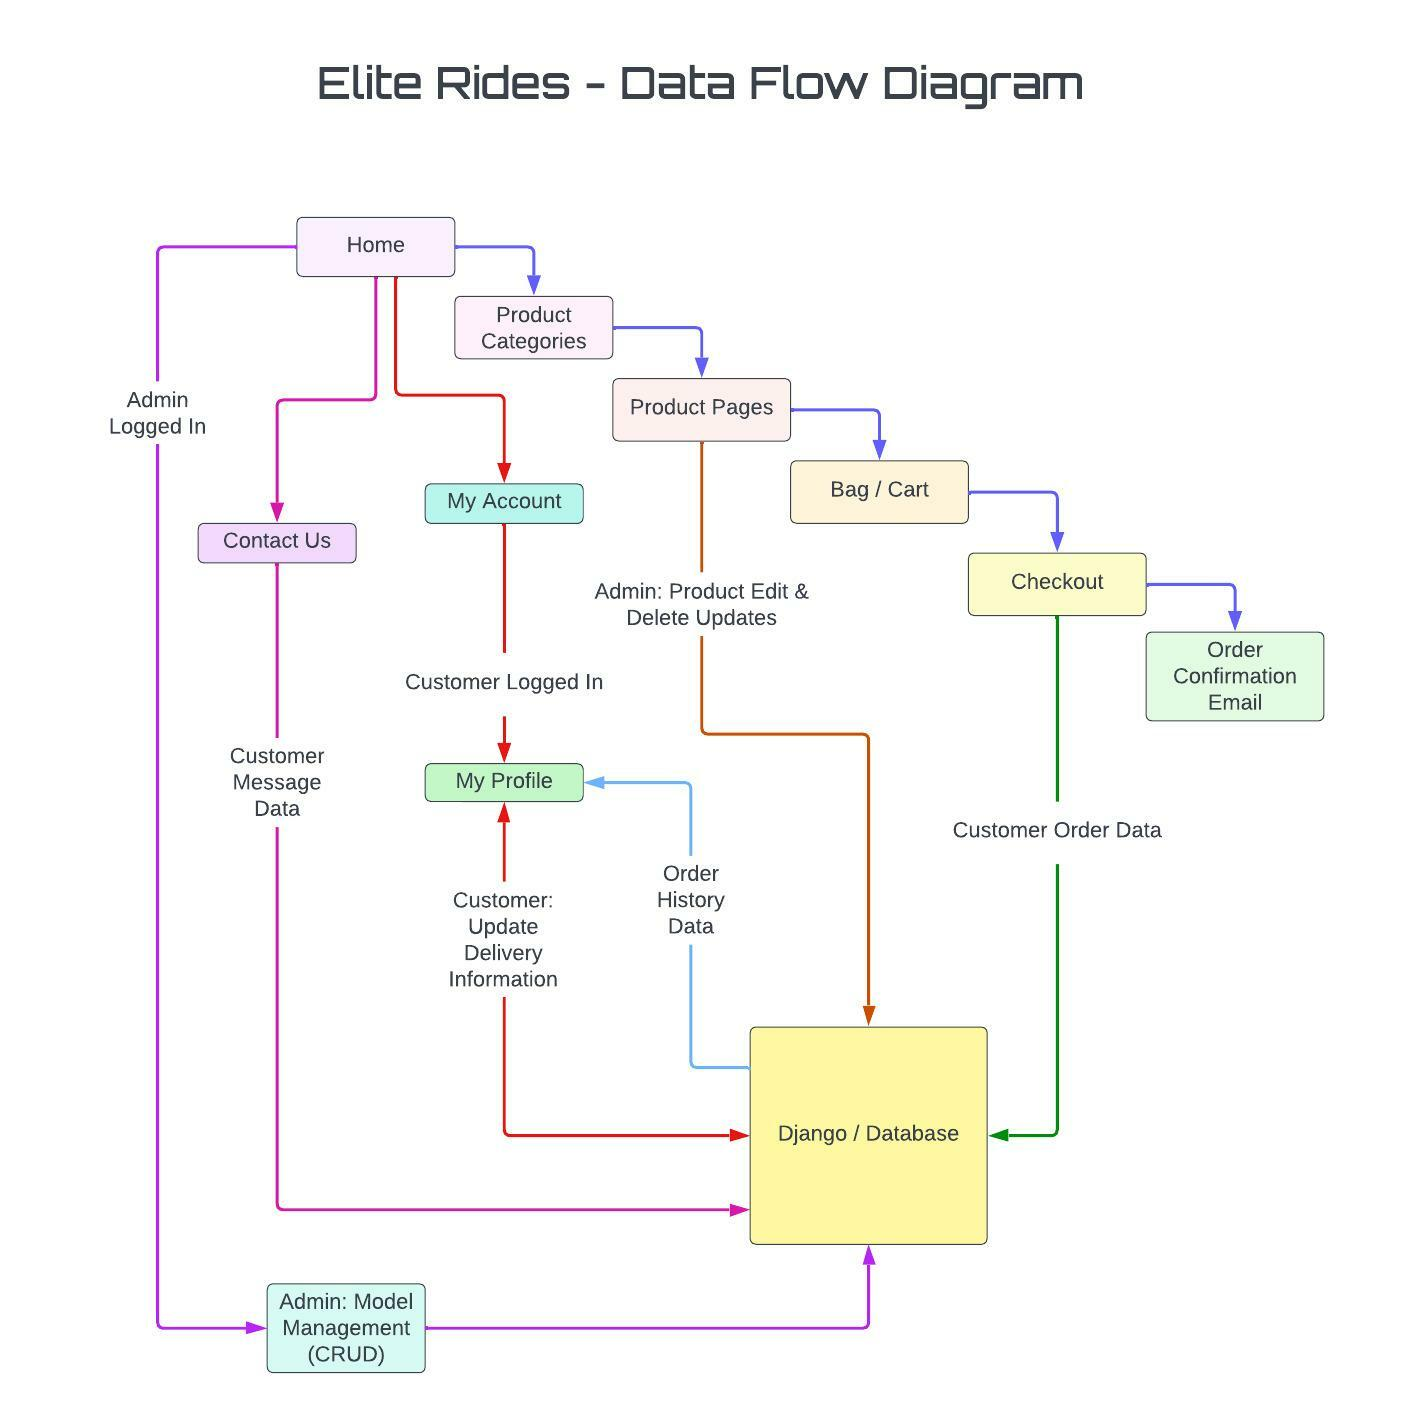
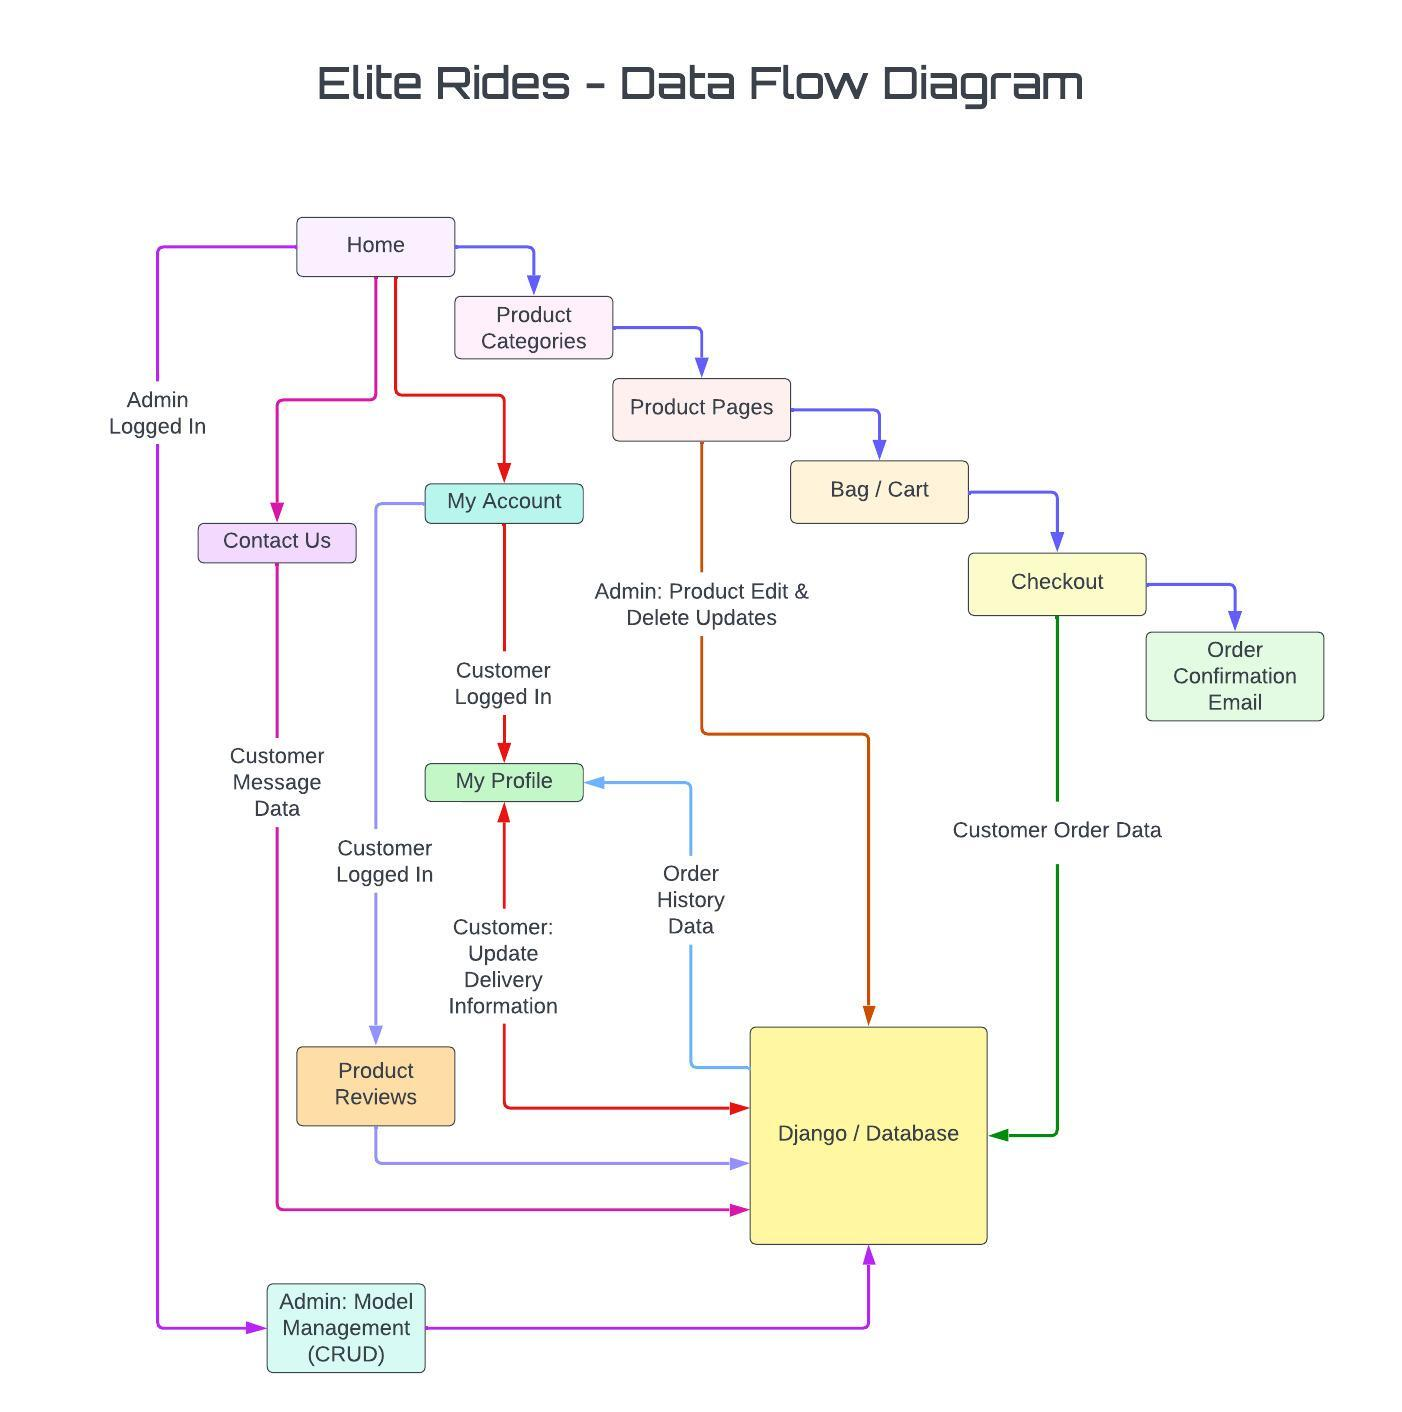
Updated Testing section, uploaded new erd and data diagram, added Bug 3 section

Changed region(s): [[0.184, 0.6232, 0.5521, 0.8102], [0.3067, 0.4674, 0.4294, 0.4986], [0.2454, 0.5921, 0.3067, 0.6544]]

diff --git a/README.md b/README.md
@@ -72,7 +72,8 @@ Elite Rides is responsive which makes shopping possible on mobile and table devi
 - [Testing](#testing)
     * [Manual Testing of User Stories](#manual-testing-of-user-stories)
     * [Code Validation](#code-validation)
-        + [HTML and CSS Validation](#html-and-css-validation)
+        + [CSS Validation](#css-validation)
+        + [HTML Validation](#html-validation)
         + [Javascript Validation](#javascript-validation)
         + [Python Validation](#python-validation)
     * [Performance](#performance)
@@ -81,6 +82,7 @@ Elite Rides is responsive which makes shopping possible on mobile and table devi
     * [Bugs Encountered during Testing](#bugs-encountered-during-testing)
         + [Bug 1](#bug-1)
         + [Bug 2](#bug-2)
+        + [Bug 3](#bug-3)
 - [Strip Integration](#strip-integration)
     * [Testing Stripe](#testing-stripe)
     * [Injecting Stripe](#injecting-stripe)
@@ -94,7 +96,7 @@ Elite Rides is responsive which makes shopping possible on mobile and table devi
     * [Databases](#databases)
     * [Other tools](#other-tools)
 - [Information Architecture](#information-architecture)
-    * [Entity-Relationship Diagram](#entity-relationship-diagram)
+    * [Relational Database Schema](#relational-database-schema)
 - [Deployments and Database Setup](#deployments-and-database-setup)
     * [Creating an external database using ElephantSQL](#creating-an-external-database-using-elephantsql)
     * [Create a Heroku app to connect to the new database](#create-a-heroku-app-to-connect-to-the-new-database)
@@ -781,33 +783,52 @@ I used the W3C Markup HTML Validator to confirm there are no errors in the html 
 
 `Document checking completed. No errors or warnings to show.`
 
-| URL | Result |
+| Page URL | Result |
 | ------------- | ------------- |
 | https://pp5-elite-rides.herokuapp.com/ | PASS |
-| https://pp5-elite-rides.herokuapp.com/products/?sort=price&direction=asc |  |
-| https://pp5-elite-rides.herokuapp.com/products/?sort=make&direction=asc |  |
-| https://pp5-elite-rides.herokuapp.com/products/?sort=model&direction=asc |  |
-| https://pp5-elite-rides.herokuapp.com/products/ |  |
-| https://pp5-elite-rides.herokuapp.com/products/?category=british |  |
-| https://pp5-elite-rides.herokuapp.com/products/?category=italian |  |
-| https://pp5-elite-rides.herokuapp.com/products/?category=german |  |
-| https://pp5-elite-rides.herokuapp.com/products/?category=british,italian,german |  |
-| https://pp5-elite-rides.herokuapp.com/about-us/ |  |
-| https://pp5-elite-rides.herokuapp.com/contact/ |  |
-| https://pp5-elite-rides.herokuapp.com/products/add/ |  |
-| https://pp5-elite-rides.herokuapp.com/profile/ |  |
-| https://pp5-elite-rides.herokuapp.com/accounts/logout/ |  |
-| https://pp5-elite-rides.herokuapp.com/accounts/signup/ |  |
-| https://pp5-elite-rides.herokuapp.com/accounts/login/ |  |
-| https://pp5-elite-rides.herokuapp.com/bag/ |  |
-| https://pp5-elite-rides.herokuapp.com/terms-conditions/ |  |
-| https://pp5-elite-rides.herokuapp.com/privacy-policy/ |  |
-| https://pp5-elite-rides.herokuapp.com/cookie-policy/
-| https://pp5-elite-rides.herokuapp.com/checkout/
-
+| https://pp5-elite-rides.herokuapp.com/products/?sort=price&direction=asc | PASS |
+| https://pp5-elite-rides.herokuapp.com/products/?sort=make&direction=asc | PASS |
+| https://pp5-elite-rides.herokuapp.com/products/?sort=model&direction=asc | PASS |
+| https://pp5-elite-rides.herokuapp.com/products/ | PASS |
+| https://pp5-elite-rides.herokuapp.com/products/?category=british | PASS |
+| https://pp5-elite-rides.herokuapp.com/products/?category=italian | PASS |
+| https://pp5-elite-rides.herokuapp.com/products/?category=german | PASS |
+| https://pp5-elite-rides.herokuapp.com/products/?category=british,italian,german | PASS |
+| https://pp5-elite-rides.herokuapp.com/about-us/ | PASS |
+| https://pp5-elite-rides.herokuapp.com/contact/ | PASS |
+| https://pp5-elite-rides.herokuapp.com/products/add/ | PASS |
+| https://pp5-elite-rides.herokuapp.com/profile/ | PASS |
+| https://pp5-elite-rides.herokuapp.com/accounts/logout/ | PASS |
+| https://pp5-elite-rides.herokuapp.com/accounts/signup/ | PASS |
+| https://pp5-elite-rides.herokuapp.com/accounts/login/ | PASS |
+| https://pp5-elite-rides.herokuapp.com/bag/ | PASS |
+| https://pp5-elite-rides.herokuapp.com/terms-conditions/ | PASS |
+| https://pp5-elite-rides.herokuapp.com/privacy-policy/ | PASS |
+| https://pp5-elite-rides.herokuapp.com/cookie-policy/ | PASS |
+| https://pp5-elite-rides.herokuapp.com/checkout/ | PASS |
+| https://pp5-elite-rides.herokuapp.com/products/{product id}/ | PASS |
+| https://pp5-elite-rides.herokuapp.com/profile/order_history/ | PASS |
+| https://pp5-elite-rides.herokuapp.com/accounts/confirm-email/ | PASS |
 
 ### Javascript Validation
+
+Javascript files tested using https://jshint.com/
+
+I added `/*jshint esversion: 6 */` at the top of the js files which tells 
+JS hint to use es6 features so it won't warn about them.
+
+Also, I used `/*globals $:false */` to suppress jquery warnings.
+
+| File Name | Result | Notes |
+| --------- | ------ | ----- |
+| stripe_elements.js | PASS | One undefined variable Line 25 for Stripe . This is coming from another script for Stripe which we don't want to modify. |
+| countryfield.js | PASS |
+
 ### Python Validation
+
+- I used flake8 to validate Python code. 
+- All flags/errors from my .py updates/files have been removed.
+- The only flags listed now are related to migrations, settings.py and vscode which do not need to be touched.
 
 [Back to contents](#contents)
 
@@ -865,6 +886,26 @@ I checked the browser console and saw a 403 error.
 In the `Bag App > bag.html` I removed the csrfToken from `var = data` by accident as I wanted to remove the size reference.
 
 ![image](/documentation/bugs/2_bug_403_fix.png)
+
+### Bug 3
+
+I added a test review in the django admin for a product. But the product review was not showing on the product detail page.
+
+![image](/documentation/bugs/3_product_reviews_error.png)
+
+In the product_detail.html template I'm checking against the contents of `eachProduct`, and I didn't set `eachProduct` in the `context` for your product_detail view.
+
+After I added the context, the reivews were showing
+
+```python
+context = {
+        'product': product,
+        'eachProduct': product,
+        'num_reviews': num_reviews,
+    }
+```
+
+![image](/documentation/bugs/3_product_reviews_fix.png)
 
 [Back to contents](#contents)
 
@@ -981,7 +1022,7 @@ they will always stay perfectly centred, and have a consistent size unless I man
 
 # Information Architecture
 
-## Entity-Relationship Diagram
+## Relational Database Schema
 
 Below I have mapped the database and explain how the different entities are connected to each other:
 
@@ -1031,7 +1072,7 @@ Below I have mapped the database and explain how the different entities are conn
 
 <br>
 
-![Entity-Relationship Diagram](/documentation/erd/EliteRides_ERD.jpeg)
+![Relational Database Schema](/documentation/erd/EliteRides_Relational_Database_Schema.jpeg)
 
 [Back to contents](#contents)
 
